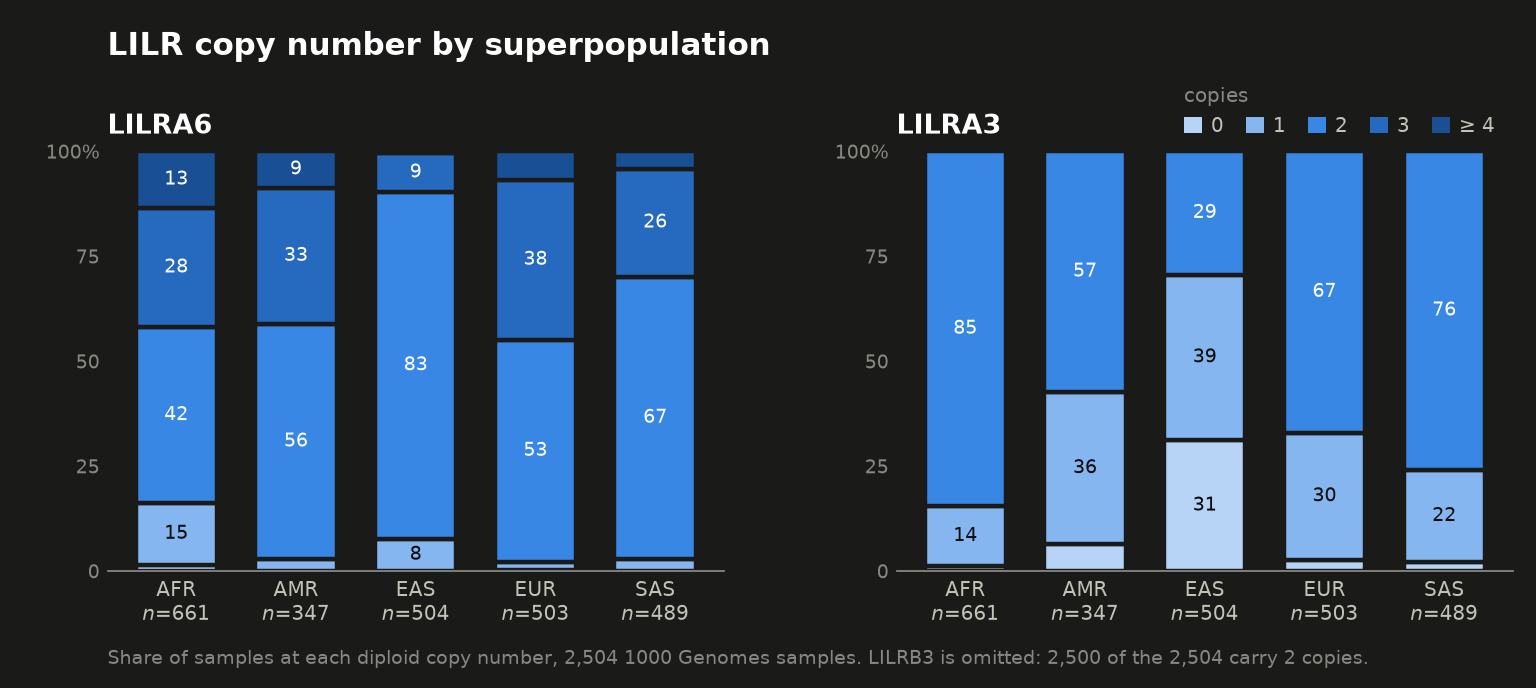
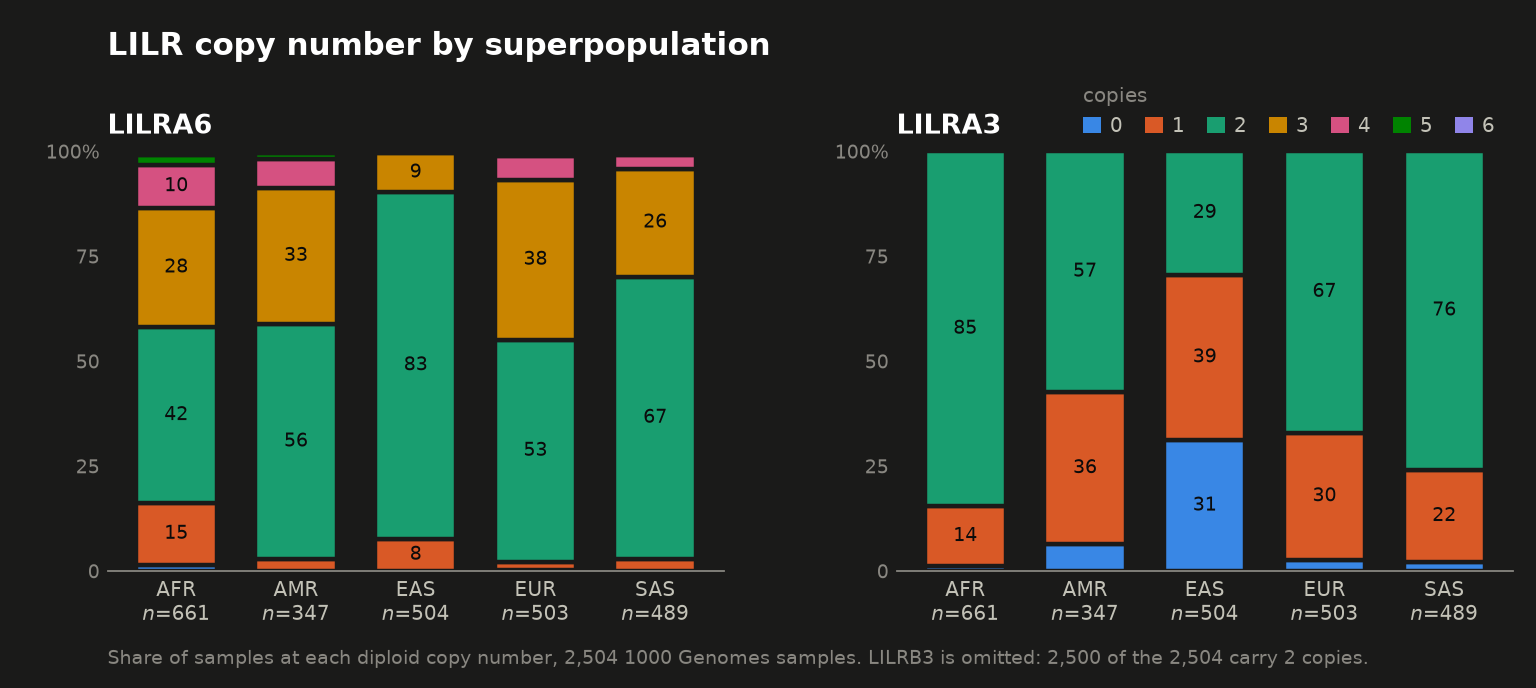
Colour the copy-number classes categorically, and stop folding the tail
The one-hue ramp encoded the ordering in the colour, which is the textbook fill
for an ordered scale, but it could only carry five classes: ramp steps have to
stay >= 0.06 OKLCH L apart to read as distinct, and this ramp fits five such steps
between its light and dark ends. LILRA6 CN >= 4 was folded into one class to suit
the palette, which is the wrong way round.

Categorical hues in the skill's fixed slot order instead. The ordering cue is
gone from the colour and lives in the legend and the stacking order, and in
exchange every copy number 0-6 gets its own class, including the 36 samples at
CN 5 and 6 that the fold had hidden. Validated on the adjacent pairlist that
stacked bars use, in both modes: lightness band, chroma floor, CVD separation
(worst adjacent dE 9.1 light / 8.4 dark against a target of 8) and the
normal-vision floor all pass. Light mode warns on contrast for aqua, yellow and
magenta, whose documented relief is visible direct labels — every segment wide
enough carries its value.

Also fixes `_text_on`, which was applying the sRGB-to-linear transform after
weighting the channels rather than before. It happened to pick right on a blue
ramp; on a palette that spans yellow to violet it would not have.

diff --git a/scripts/plot_cn_by_superpop.py b/scripts/plot_cn_by_superpop.py
@@ -7,16 +7,15 @@
 Writes `cn_by_superpopulation.png` and a `-dark.png` twin, because a README is
 read on both surfaces and an inverted light figure is not a dark-mode figure.
 
-Two decisions worth stating, since neither is free:
-
-* **Copy number is an ordered scale, so the fill is a one-hue ramp** — light for
-  fewer copies, dark for more — not a categorical palette. Categorical hues would
-  imply LILRA6 CN 1 and CN 4 are different *kinds* of thing rather than two points
-  on one scale.
-* **LILRA6 CN >= 4 is one class.** The ramp's steps have to stay visibly apart
-  (>= 0.06 OKLCH L between neighbours, the check in the data-viz skill's
-  validator), and this ramp fits five such steps between its light and dark ends,
-  not seven. Five classes it is; 175 of 2,504 samples sit in the folded tail.
+One decision worth stating, since it costs something. Copy number is an *ordered*
+scale, and the textbook fill for it is a one-hue ramp — light for fewer copies,
+dark for more — which makes the ordering legible from the colour alone. These
+panels use **categorical hues** instead, which trades that cue away and buys two
+things back: every copy number gets its own class rather than being folded into a
+">= 4" tail (a one-hue ramp fits five steps between its ends at the >= 0.06 OKLCH L
+separation the validator wants, not seven), and adjacent slices stay far apart for
+a colourblind reader — worst adjacent pair dE 9.1 light / 8.4 dark, against a
+target of 8. The legend is ordered, and the panels are read left to right.
 
 LILRB3 is not plotted. 2,500 of 2,504 samples are CN 2, so its panel would be one
 flat colour and would say only that the gene is stable — which the caption can say
@@ -36,13 +35,17 @@ matplotlib.use("Agg")
 import matplotlib.pyplot as plt  # noqa: E402
 from matplotlib.patches import Patch  # noqa: E402
 
-# Steps from the data-viz skill's blue ramp, chosen by its ordinal rule: monotone
-# lightness, >= 0.06 OKLCH L between neighbours, the surface-facing end still
-# clearing 2:1. The dark column is re-stepped for the dark surface and validated
-# there — 450/500 were adjacent in the first draft and failed at dL 0.048.
-RAMP = {
-    "light": ["#86b6ef", "#5598e7", "#2a78d6", "#1c5cab", "#0d366b"],
-    "dark": ["#b7d3f6", "#86b6ef", "#3987e5", "#256abf", "#184f95"],
+# The data-viz skill's categorical slots, in its fixed order — never re-ordered and
+# never cycled, so copy number N is the same hue in both panels and in any later
+# figure. Validated on the adjacent pairlist (the one stacked bars use) in both
+# modes: lightness band, chroma floor, CVD and normal-vision separation all pass.
+# Light mode warns on contrast for aqua/yellow/magenta, whose documented relief is
+# visible direct labels — which is why every segment wide enough carries its value.
+PALETTE = {
+    "light": ["#2a78d6", "#eb6834", "#1baf7a", "#eda100", "#e87ba4", "#008300",
+              "#4a3aa7"],
+    "dark": ["#3987e5", "#d95926", "#199e70", "#c98500", "#d55181", "#008300",
+             "#9085e9"],
 }
 INK = {
     "light": dict(surface="#fcfcfb", primary="#0b0b0b", secondary="#52514e",
@@ -51,16 +54,18 @@ INK = {
                  muted="#898781"),
 }
 SUPERPOPS = ["AFR", "AMR", "EAS", "EUR", "SAS"]
-GENES = [("lilra6_cn", "LILRA6", [0, 1, 2, 3, 4], ["0", "1", "2", "3", "≥ 4"]),
+GENES = [("lilra6_cn", "LILRA6", [0, 1, 2, 3, 4, 5, 6],
+          ["0", "1", "2", "3", "4", "5", "6"]),
          ("lilra3_cn", "LILRA3", [0, 1, 2], ["0", "1", "2"])]
 
 
 def _text_on(fill: str) -> str:
-    """Ink that survives on this fill — the ramp crosses the readable boundary."""
-    r, g, b = (int(fill[i:i + 2], 16) / 255 for i in (1, 3, 5))
-    lum = sum(c / 12.92 if c <= 0.04045 else ((c + 0.055) / 1.055) ** 2.4
-              for c in (0.2126 * r, 0.7152 * g, 0.0722 * b))
-    return "#0b0b0b" if lum > 0.16 else "#ffffff"
+    """Ink that survives on this fill — these hues straddle the readable boundary."""
+    channels = [int(fill[i:i + 2], 16) / 255 for i in (1, 3, 5)]
+    linear = [c / 12.92 if c <= 0.04045 else ((c + 0.055) / 1.055) ** 2.4
+              for c in channels]
+    lum = 0.2126 * linear[0] + 0.7152 * linear[1] + 0.0722 * linear[2]
+    return "#0b0b0b" if lum > 0.2 else "#ffffff"
 
 
 def load(path: Path) -> dict:
@@ -76,13 +81,15 @@ def load(path: Path) -> dict:
         for gene, _, classes, _ in GENES:
             if not row[gene]:
                 continue
-            cn = min(int(row[gene]), classes[-1])   # fold the tail
+            cn = int(row[gene])
+            if cn not in classes:
+                continue
             counts[gene][sup][cn] += 1
     return counts, n
 
 
 def draw(counts, n, mode: str, out: Path) -> None:
-    ink, ramp = INK[mode], RAMP[mode]
+    ink, ramp = INK[mode], PALETTE[mode]
     fig, axes = plt.subplots(1, 2, figsize=(9.6, 4.3), dpi=160,
                              facecolor=ink["surface"])
     fig.subplots_adjust(left=0.07, right=0.985, top=0.78, bottom=0.17, wspace=0.28)

diff --git a/README.md b/README.md
@@ -64,9 +64,9 @@ superpopulation runs 30–45%, and 31% carry no LILRA3 at all where the others r
 1–6%. At CHB and JPT the LILRA3 deletion is the *major* allele, at ~75% — the
 "~24% deletion frequency" usually quoted is a European-weighted figure.
 
-The rarest classes are real but too thin to see at this scale: 11 samples carry
-no LILRA6 at all — 10 of them African-ancestry — and 36 carry 5 or 6 copies.
-Regenerate the figure with `scripts/plot_cn_by_superpop.py`.
+Every copy number has its own colour, but the rarest are still only slivers: 11
+samples carry no LILRA6 at all — 10 of them African-ancestry — and 36 carry 5 or
+6 copies. Regenerate the figure with `scripts/plot_cn_by_superpop.py`.
 
 ## Just the copy number, on any cluster
 
